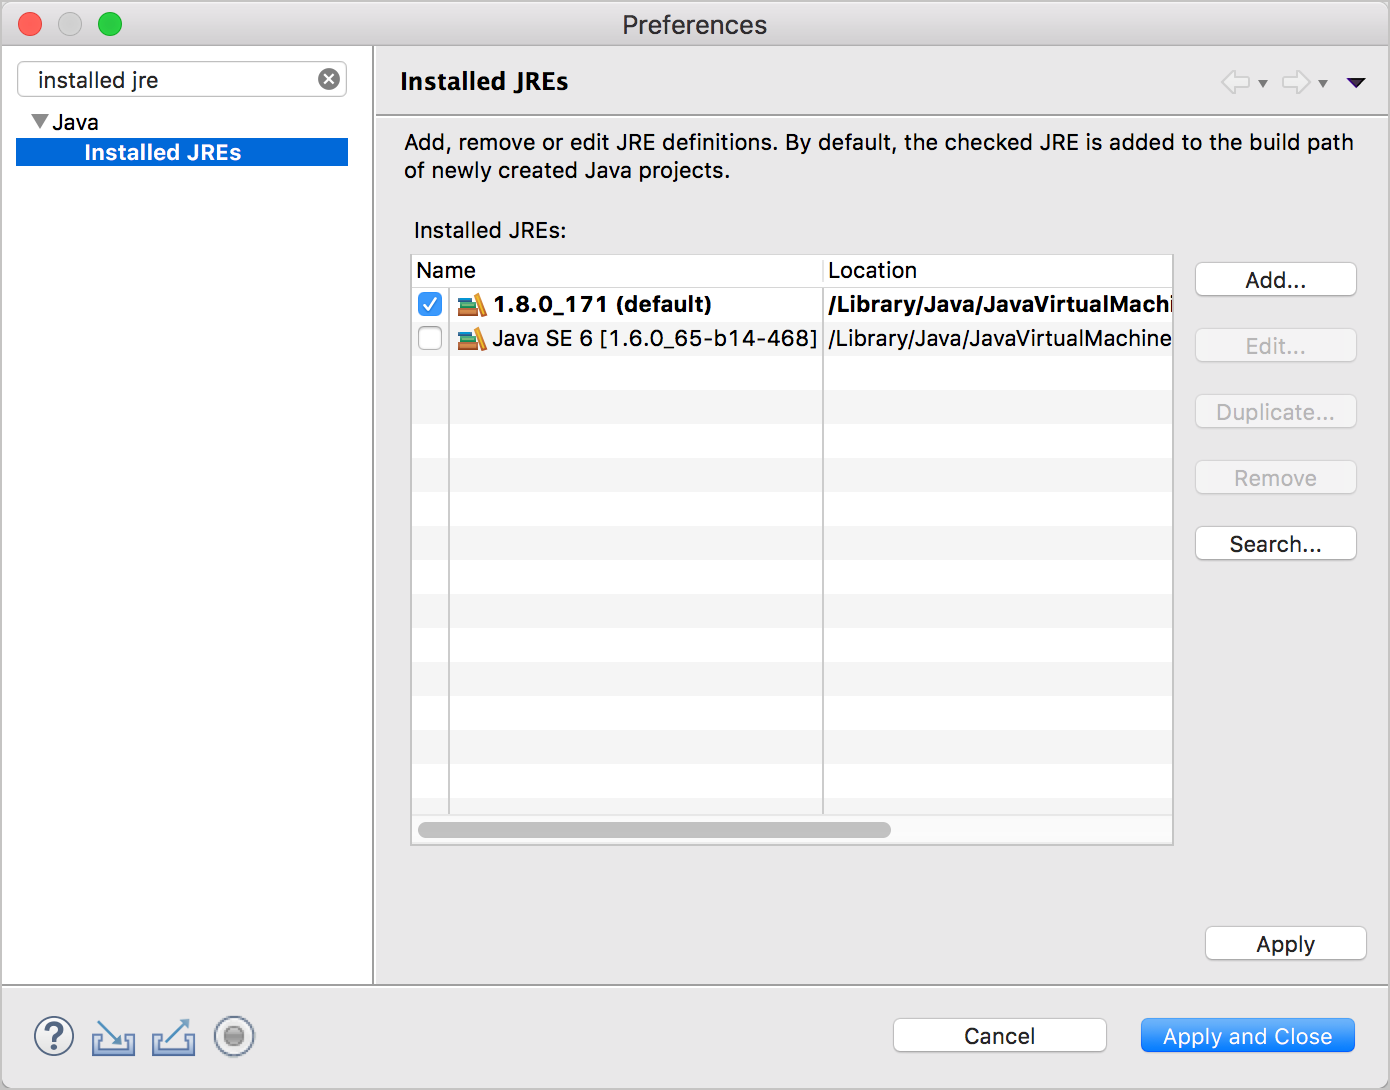
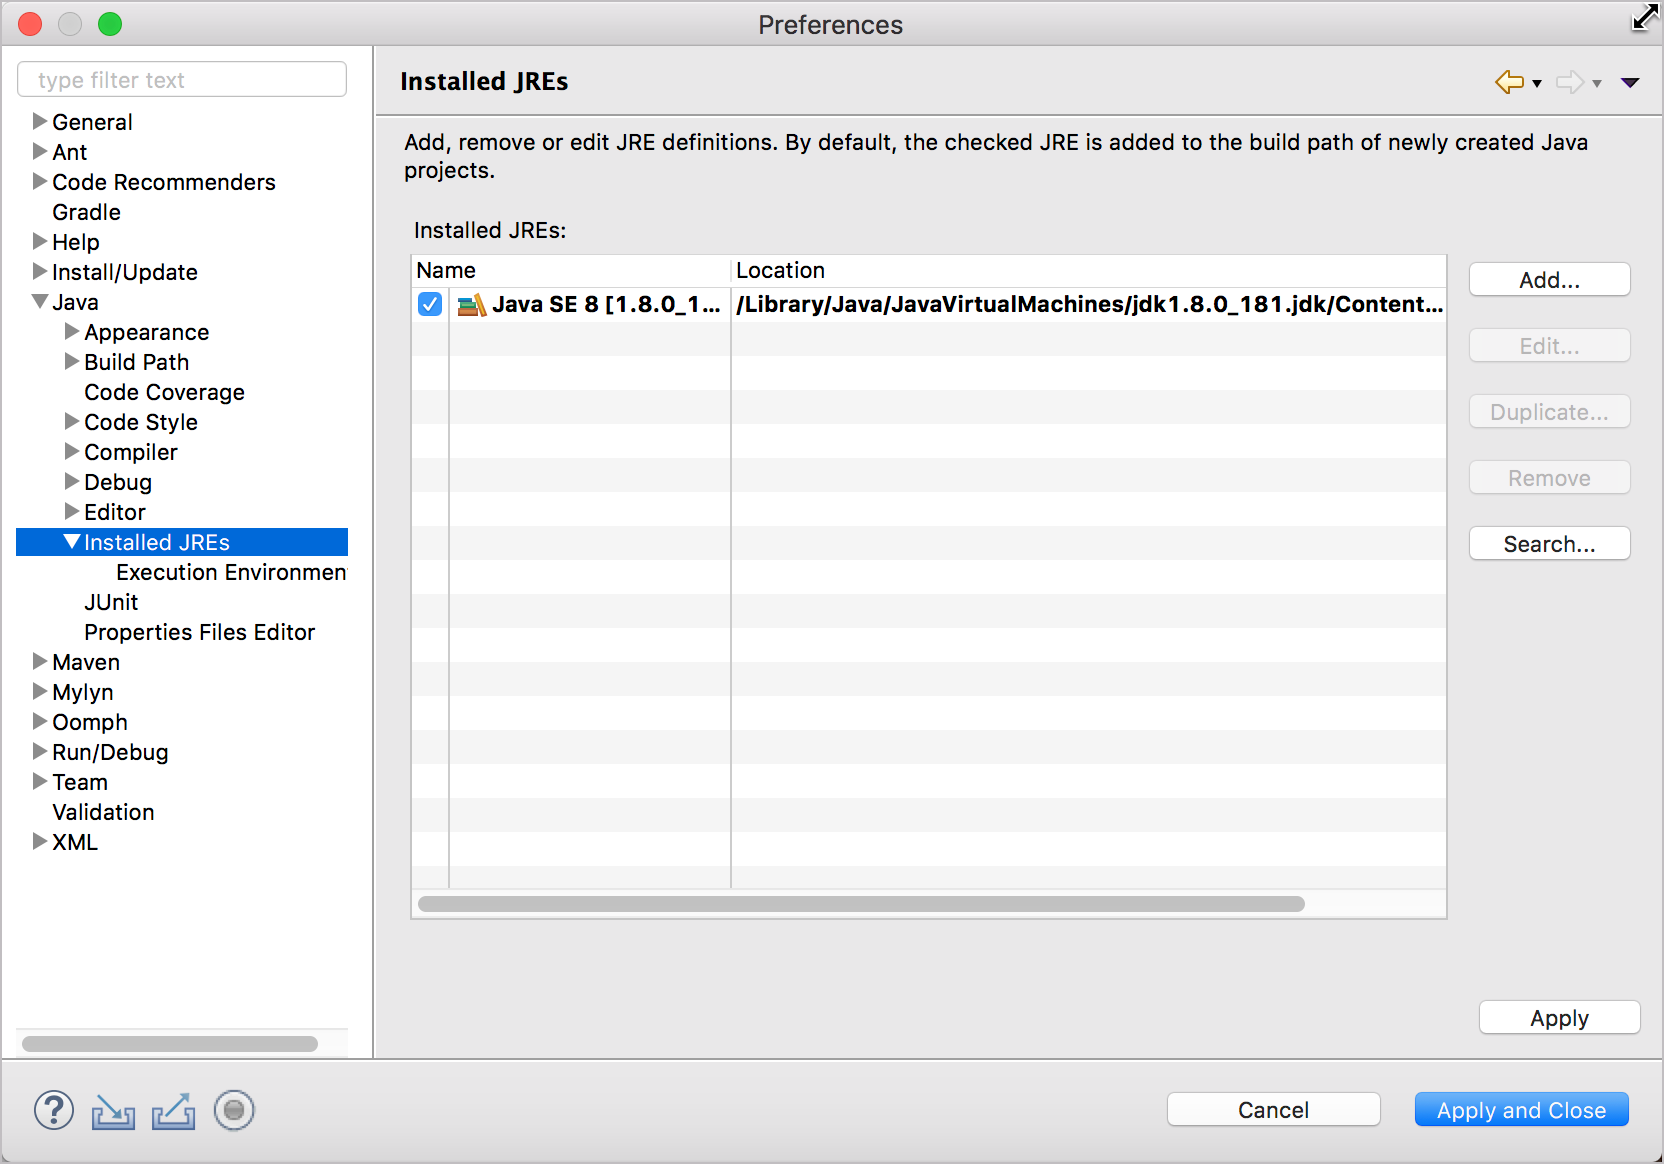
updates to javadoc section

diff --git a/_docs/documenting_native_library_apis/nativelibraryapis_overview.md b/_docs/documenting_native_library_apis/nativelibraryapis_overview.md
@@ -8,7 +8,7 @@ section: nativelibraryapis
 path1: /nativelibraryapis.html
 ---
 
-In most of this course, we focused on REST APIs. For this section, let's explore native library APIs, which are more common when building native apps that you install on devices (such as Android or iOS devices).
+In most of this course, we focused on [REST APIs](docapis_what_is_a_rest_api.html). In this section, we'll explore native library APIs, which are more common when building native apps that you install on devices (such as Android or iOS devices). Understanding native library APIs will also help clarify what makes REST APIs so different.
 
 {% if site.format == "web" %}
 * TOC
@@ -19,7 +19,7 @@ In most of this course, we focused on REST APIs. For this section, let's explore
 
 Native library APIs (also called class-based APIs or just APIs) are notably different in the following ways:
 
-* **Installed locally**. Native library APIs are installed locally, compiled into the programmer's code as an additional library. The programmer can then use the classes, methods, or other functions available in the library. (The API part refers to the *public* classes the developers use to access the functions in the library. There are probably lots of helper and utility classes in the Java library that aren't public. The *public* functions that the developer audience uses form the API, since this is how people make use of the library.)
+* **Installed locally**. Native library APIs are installed locally, compiled into the programmer's code as an additional library. The programmer can then use the classes, methods, or other functions available in the library. (The API part refers to the *public* classes the developers use to access the functions in the library. There are probably lots of helper and utility classes in the Java library that aren't public. The public functions that the developer audience uses form the API, since this is how people make use of the library.)
 * **No requests and responses**. The classes in the native library API don't use HTTP protocol, nor are there requests and responses sent across the web. The native library API is simply a collection of functions that enhance the existing code with more capabilities. It's entirely local.
 * **Language specific**. Native library APIs are language specific. There are as many different types of APIs as there are programming languages, more or less. You can have a Java API, Python API, C++ API, C# or .NET API, JavaScript API, and so on.
 * **Requires some programming knowledge to document**. To understand how the API works, you need to have a general understanding of the programming language the API is written for. You don't need to be a programmer, but you should be familiar with the nuts and bolts of the programming language, the correct terms, how the different parts fit together, and how developers will use the API.
@@ -34,25 +34,21 @@ Because native library APIs are so dependent on a specific programming language,
 
 Even so, you don't need to be a programmer. You just need a minimal understanding of the language. Technical writers can contribute a lot here in terms of style, consistency, clarity, tagging, and overall professionalism.
 
-You know what happens when engineers write &mdash; the content is cryptic and often incomplete. Usually the developer assumes everyone is as knowledgeable as he or she is, and any kind of extra explanatory detail, examples, cross-references, glossaries, or other helpful information is omitted.
-
 {% include random_ad2.html %}
 
 ## My approach to teaching native library API doc
 
-There are many books and online resources you can consult to learn a specific programming language. This section of the course will not try to [teach you Java](nativelibraryapis_java_crash_course.html). However, to understand a bit about Java API documentation (which uses a document generator called [Javadoc](http://www.oracle.com/technetwork/articles/java/index-jsp-135444.html)), you will need some understanding of Java.
+There are many books and online resources you can consult to learn a specific programming language. This section of the course will not try to [teach you Java](nativelibraryapis_java_crash_course.html) in any comprehensive way. However, to understand a bit about Java API documentation (which uses a document generator called [Javadoc](http://www.oracle.com/technetwork/articles/java/index-jsp-135444.html)), you will need some understanding of Java.
 
 To keep the focus on API documentation, we'll take a documentation-centric approach to understanding Java. You'll learn the various parts of Java by looking at a specific Javadoc file and sorting through the main components.
 
 ## What you need to install {#installation_reqs}
 
-For this part of the course, you need to install the following:
+For this part of the course, you need to install the [Java Development Kit (JDK)](#jdk) and the [Eclipse IDE for Java Developers](#eclipse).
 
-**Java Development Kit (JDK)**
+### Java Development Kit (JDK) {#jdk}
 
-You can [download the JDK here](http://www.oracle.com/technetwork/java/javase/downloads/index.html). Click the Java button and then select the appropriate download for your machine.
-
-To make sure you have Java installed, you can do the following:
+To check whether you have the Java Development Kit installed, do the following:
 
 * On Mac: Open Terminal and type `java -version`.
 * On Windows: Open a Command Prompt and type `where java`.
@@ -60,23 +56,25 @@ To make sure you have Java installed, you can do the following:
 If it's installed, you should see a message somewhat like this:
 
 ```
-java version "10.0.1" 2018-04-17
-Java(TM) SE Runtime Environment 18.3 (build 10.0.1+10)
-Java HotSpot(TM) 64-Bit Server VM 18.3 (build 10.0.1+10, mixed mode)
+java version "1.8.0_181"
+Java(TM) SE Runtime Environment (build 1.8.0_181-b13)
+Java HotSpot(TM) 64-Bit Server VM (build 25.181-b13, mixed mode)
 ```
 
-**Eclipse IDE for Java Developers**
+If it's not installed, you can [download the JDK here](http://www.oracle.com/technetwork/java/javase/downloads/index.html). Click the Java button and then select the appropriate download for your machine.
 
-Use the [Eclipse Installer to download Eclipse](https://eclipse.org/downloads/). When you launch the installer, you can choose to install the **Eclipse IDE for Java**.
+### Eclipse IDE for Java Developers {#eclipse}
 
-  {% include course_image.html url="https://eclipse.org/downloads/" size="small" border="true" filename="eclipseforjavadevs" ext_print="png" ext_web="png" alt="Eclipse installer" caption="Eclipse installer" %}
+Download and install the [Eclipse IDE for Java Developers](https://www.eclipse.org/downloads/packages/).
 
-Start Eclipse. When prompted to select a workspace, select the default location and click **Launch**. Close the welcome tab. To make sure you have the right JDK installed, go to **Project -> Properties -> Java Compiler** and make sure you have **1.8** selected.
+{% include course_image.html url="https://eclipse.org/downloads/" size="small" border="true" filename="eclipseforjavadevs" ext_print="png" ext_web="png" alt="Eclipse installer" caption="Eclipse installer" %}
 
-Also, to make sure Eclipse is configured to use version 1.8, go to **Eclipse > Preferences** and then **Java > Installed JREs**.
+Start Eclipse. When prompted to select a workspace, select the default location and click **Launch**. Close the welcome tab.
+
+To make sure Eclipse is configured to use version 1.8, go to **Eclipse > Preferences** and then **Java > Installed JREs**.
 
 {% include course_image.html size="medium" filename="installed-jre-eclipse" ext_print="png" ext_web="png" alt="Installed JRE settings" caption="Installed JRE settings" %}
 
-If 1.8 isn't selected, browse to your install directory (on Macbook Pro, it's `/Library/Java/JavaVirtualMachines/jdk1.8.0_171.jdk/Contents/Home`) and select it.
+If 1.8 isn't selected, browse to your install directory (on Mac, it's `/Library/Java/JavaVirtualMachines/jdk1.8.0_171.jdk/Contents/Home`) and select it.
 
 (Since we'll just be using Java within the context of Eclipse, Windows users don't need to add Java to their class path. But if you want to be able to compile Java from the command line, you would also need to do this.)

diff --git a/_docs/documenting_native_library_apis/nativelibraryapis_getting_the_source.md b/_docs/documenting_native_library_apis/nativelibraryapis_getting_the_source.md
@@ -17,39 +17,33 @@ In order to understand documentation for Java APIs, it helps to have a context o
 
 ## Sample Java Project
 
-The [sample Java project](https://github.com/tomjoht/sample-java-project) is a little application about different tools that a coyote will use to capture a roadrunner. There are two classes (ACMESmartphone and Dynamite) and another class file called App that references the classes.
+The sample Java project (available at [github.com/tomjoht/sample-java-project](https://github.com/tomjoht/sample-java-project)) is a little Java application about different tools that a coyote will use to capture a roadrunner. There are two classes (`ACMESmartphone` and `Dynamite`) and another class file called `App` that references the classes.
 
 {% include random_ad2.html %}
 
-This program doesn't really do anything except print little messages to the console, but it's hopefully simple enough to be instructive in its purpose. The purpose of the app is to demonstrate different doc tags, their placement, and how they get rendered in the Javadoc.
+This program doesn't really do anything except print little messages to the console, but it's simple enough to be instructive in its purpose. The purpose of the app is to demonstrate different doc tags, their placement, and how they get rendered in the Javadoc.
 
 ## Download the project
 
-One of your immediate challenges to editing Javadoc will be to get the source code into your IDE. The sample java project is [here on Github](https://github.com/tomjoht/sample-java-project).
+One of your immediate challenges to editing Javadoc will be to get the source code into your IDE. The sample java project is .
 
-First clone the source using version control. We covered some version control basics <a href="pubapis_version_control.html">earlier in the course</a>.
+First, go to the [sample-java-project](https://github.com/tomjoht/sample-java-project) and clone the source using version control. (We covered some version control basics earlier in <a href="pubapis_version_control.html">Version control systems (such as Git)</a>.)
 
-You can clone the source in a couple of ways:
-
-```
+```bash
 git clone https://github.com/tomjoht/sample-java-project
 ```
-
-Or click **Clone in Desktop** and navigate to the right path in Github Desktop.
-
-(If you don't want to clone the source, you could click **Download ZIP** and download the content manually.)
 
 {% include random_ad.html %}
 
 ## Open the project in Eclipse
 
-1.  If you haven't already [downloaded and installed Eclipse](nativelibraryapis_overview.html#installation_reqs), do so.
+1.  If you haven't already [downloaded and installed Eclipse](nativelibraryapis_overview.html#eclipse), do so.
 1.  Open Eclipse and go to **File > New > Java Project**.
-2.  Clear the **Use default location** check box, and then click **Browse** and select the folder where you cloned the Github project.
+2.  Clear the **Use default location** check box, and then click **Browse** and select the folder where you cloned the Github project. Click **Open**.
 
     {% include course_image.html border="true" filename="create-new-java-project" ext_print="png" ext_web="png" alt="Import existing Java project" size="small" caption="Import existing Java project" %}
 
-3.  Click **Finish**.
+3.  Click **Finish** to close the New Java Project dialog box.
 
 	  The Java files should be visible in the left pane (Package Explorer) within your Eclipse IDE.
 
@@ -57,13 +51,15 @@ Or click **Clone in Desktop** and navigate to the right path in Github Desktop.
 
 ## <i class="fa fa-user-circle"></i> Play with the Sample Java Project
 
-This Java app doesn't do much. It's main purpose is to create some classes where I can add some Javadoc annotations. But for fun, you can run the app.
+This Java app doesn't do much. It's main purpose is to create some classes that demonstrate some Javadoc annotations. But for fun, run the app.
 
 1.  In the Package Explorer, expand **javadoc_tags**.
 2.  Double-click the **App.java** file to open it.
-3.  Click the **Run App** button <img src="images/javarunbutton.png" style="vertical-align:bottom" />.
+3.  Click the **Run App** button <img src="images/javarunbutton.png" style="vertical-align:bottom" />:
 
-The main method (`public static void main(String[] args) throws IOException`), which is contained in the **App.java** file, runs the functions defined in the other package's files (ACMESmartphone.java and Dynamite.java).
+    {% include course_image.html size="large" filename="eclipserunapp" ext_print="png" ext_web="png" alt="Running the app in Eclipse" caption="Running the app in Eclipse" %}
+
+The main method (`public static void main(String[] args) throws IOException`), which is contained in the **App.java** file, runs the functions defined in the other package's files (`ACMESmartphone.java` and `Dynamite.java`).
 
 ```java
 public static void main(String[] args) throws IOException {
@@ -80,7 +76,7 @@ public static void main(String[] args) throws IOException {
 }
 ```
 
-You can view the details of each function by clicking the ACMESmartphone.java and Dynamite.java class files.
+You can view the details of each function by clicking the `ACMESmartphone.java` and `Dynamite.java` class files.
 
 Then app prints this text to the console:
 
@@ -94,14 +90,12 @@ Backfire!!! zapping coyote with 1,000,000 volts!!!!
 
 {% include course_image.html  size="medium"  filename="java-app-in-action" ext_print="png" ext_web="png" alt="Running the program" caption="Running the program" %}
 
-Note that I've chosen to position my Console on the bottom (to make the code visible), but by default it's on the right side.
-
 ## Side Note about Maven projects
 
 Before leaving this intro topic on getting started with a Java project, I'd like to make a note about Maven. Java projects often have a lot of dependencies on packages that are third-party libraries or at least non-standard Java utilities. Rather than requiring users to download these additional packages and add them to their class manually, developers frequently use Maven to manage the packages. (Maven is to Java like Gradle is to Android.)
 
 Maven projects use a pom.xml file that defines the dependencies. Eclipse ships with Maven already installed, so when you import a Maven project and install it, the Eclipse Maven plugin will retrieve all of the project dependencies and add them to your project.
 
-The sample project doesn't use Maven, but I want to add a note about Maven here anyway. Chances are if you're getting a Java project from developers, you won't import it in the way I previously described. Instead, you'll import it as an existing Maven project.
+The sample project doesn't use Maven, but chances are if you're getting a Java project from developers, you won't import it in the way I previously described. Instead, you'll import it as an existing Maven project.
 
 (To import a Maven project into Eclipse, you would go to **File > Import > Maven > Existing Maven Projects** and click **Next**. In the Root Directory field, you would click **Browse** and browse to the Java project folder (which contains the Maven pom.xml file) and then click **Open**. Then you would click **Finish** in the dialog box. In the Project Explorer pane in Eclipse, you would right-click the Java folder and select **Run as Maven Install**. Maven retrieves the necessary packages and builds the project. If the build is successful, you will see a "BUILD SUCCESS" message in the console. You would then use the source code in the built project.)
